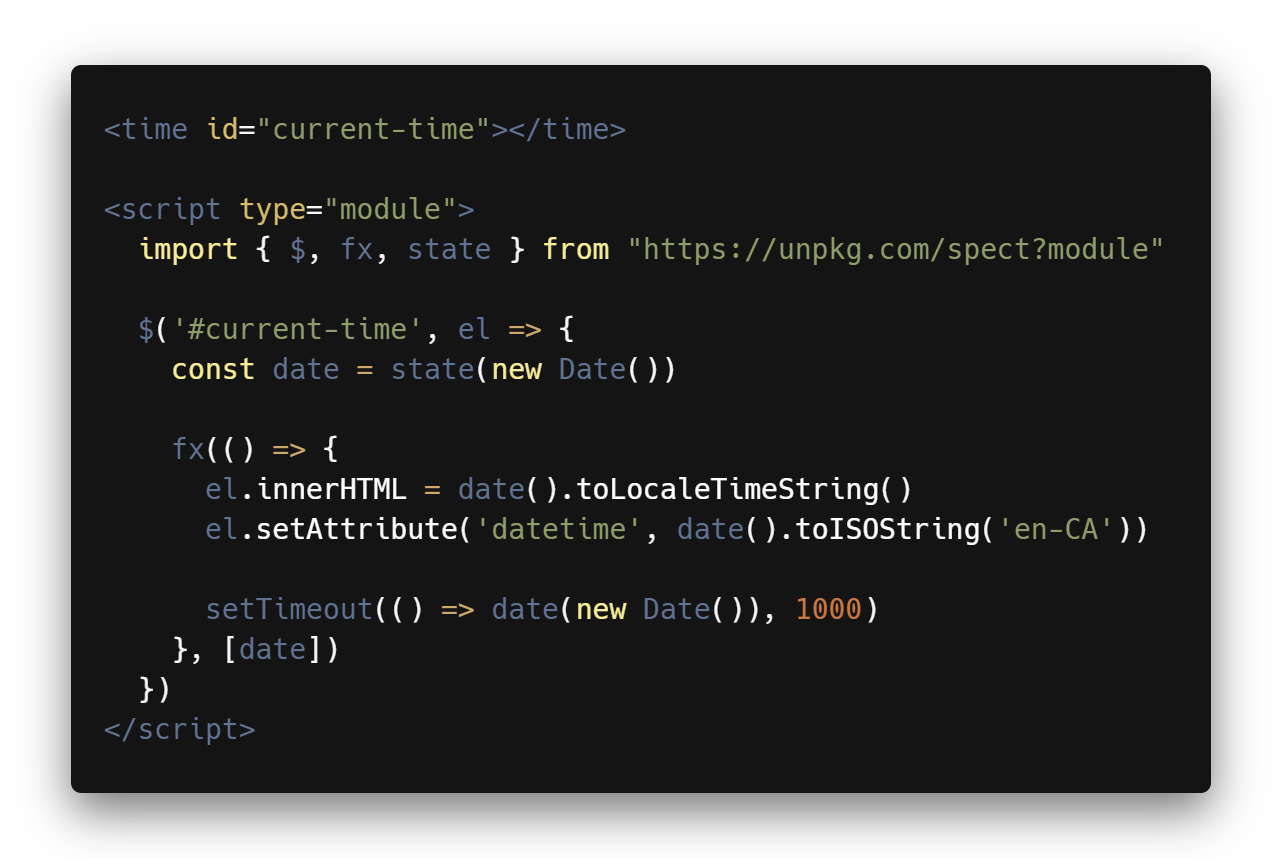
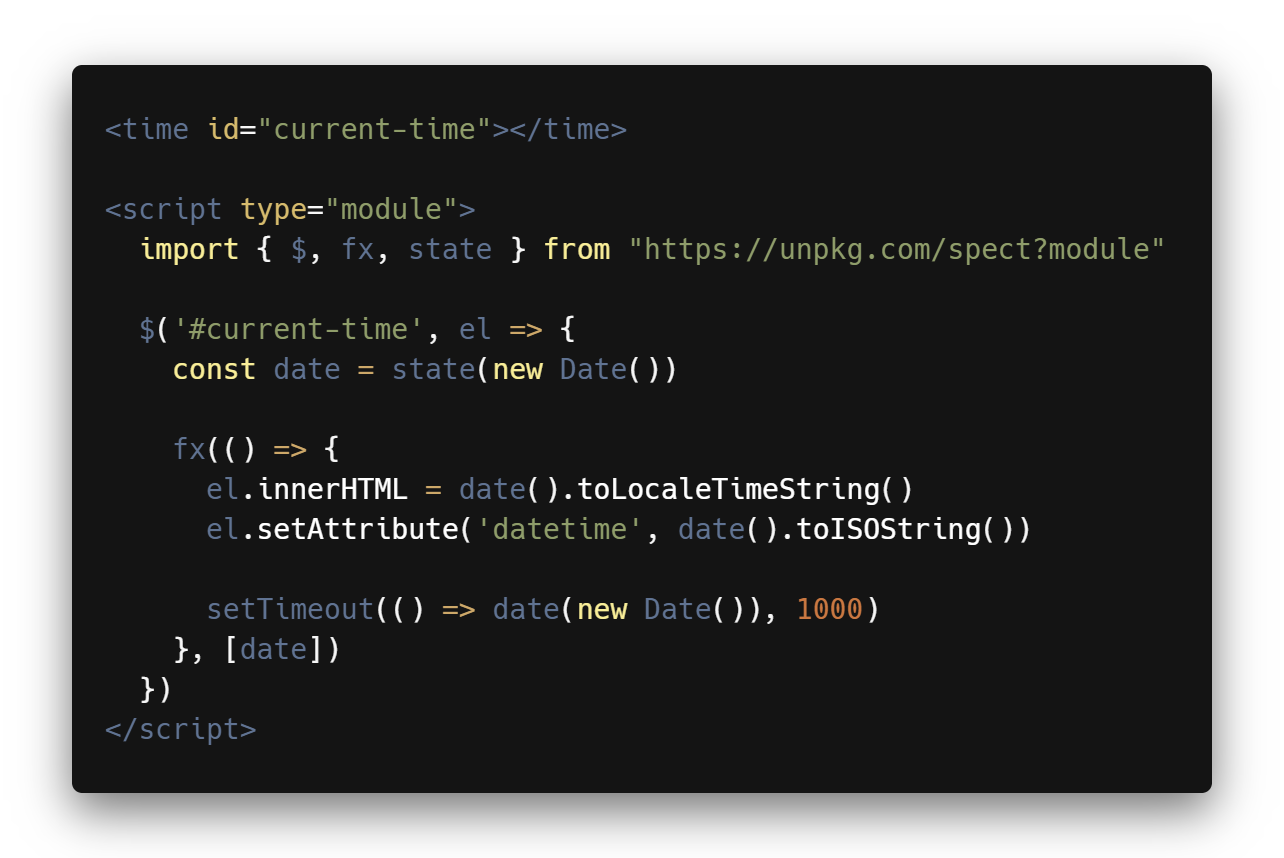
Typo

diff --git a/readme.md b/readme.md
@@ -12,7 +12,7 @@
   <a href="https://npmjs.org/package/spect"><img alt="npm" src="https://img.shields.io/npm/v/spect"></a>
 </p>
 
-<p align="center"><img src="/preview.png" width="641"/></p>
+<p align="center"><img src="/preview.png" width="642"/></p>
 
 <!--
 <time id="current-time"></time>
@@ -25,7 +25,7 @@
 
     fx(() => {
       el.innerHTML = date().toLocaleTimeString()
-      el.setAttribute('datetime', date().toISOString('en-CA'))
+      el.setAttribute('datetime', date().toISOString())
 
       setTimeout(() => date(new Date()), 1000)
     }, [date])
